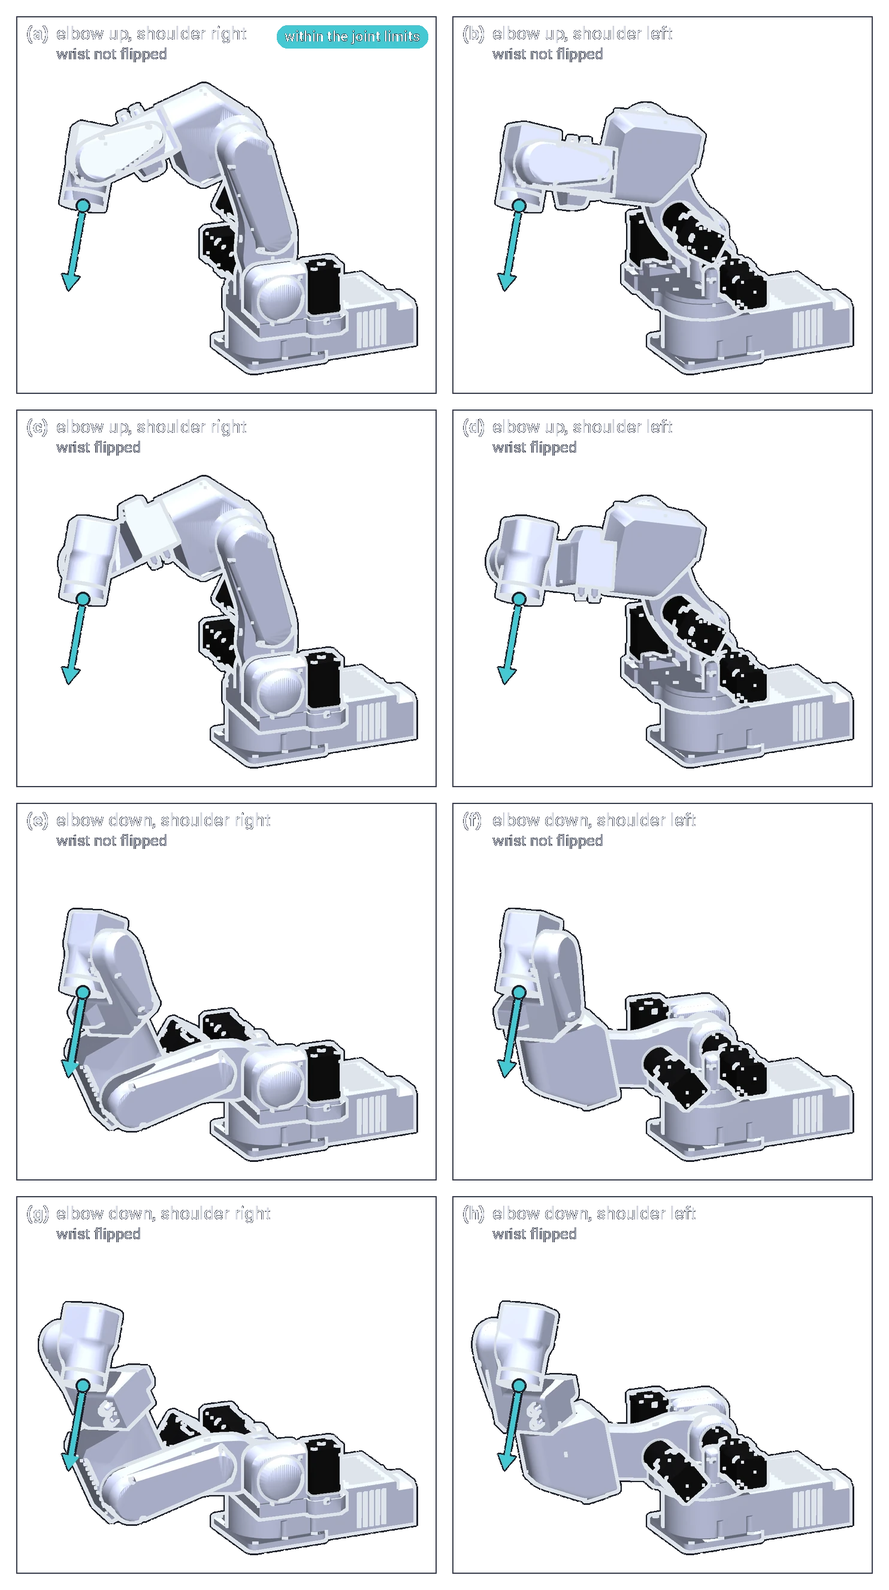
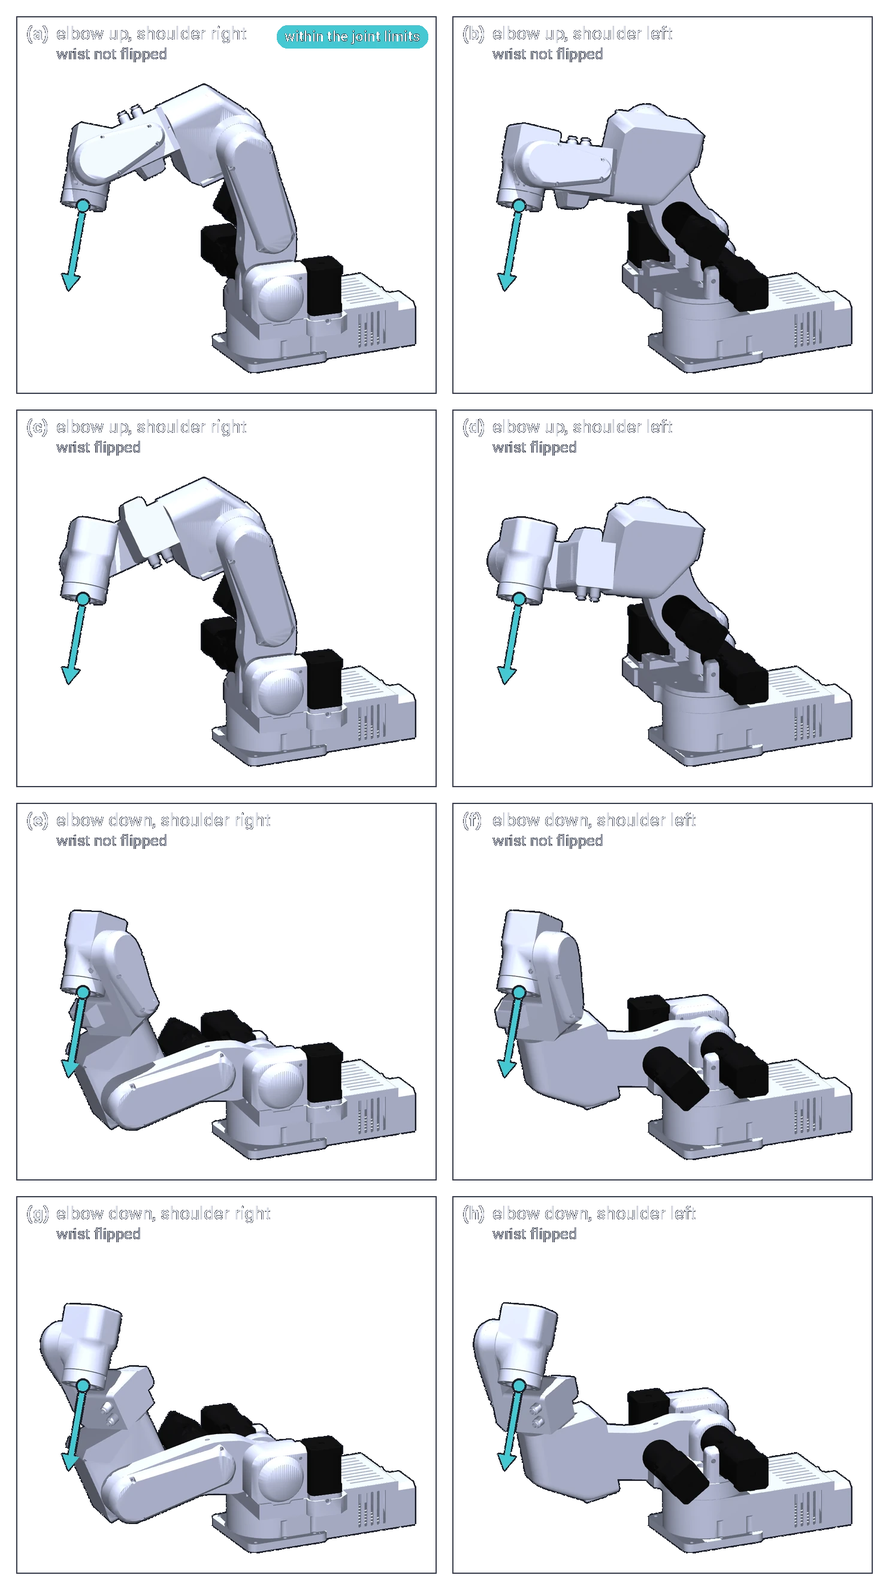
Joint limits for all six joints; after homing, joint 6 rule, green checks, singularity panels
The owner's answers (2026-11-02): after homing the arm points +90 deg from the
standby pose, and joint 6 has no limit with the bare flange (a tool's cables and
tubes limit it).

- The joint range figure has all six joints: J1 seen from above with the
  after-homing position marked, J6 without limit.
- Standby is the DH-table pose (J1 0 deg); after homing is it turned 90 deg about
  J1. The firmware and the Python API call that pose standby; the homing,
  mastering, glossary, theory and reference pages now say after-homing pose.
- The one-turn rule and the limits table: joint 6 is free with the bare flange.
- Check boxes use Material's success type, so they are green.
- The configurations figure is the plain shaded render (R1), no heavy outlines.
- The three singularities as a figure, each with its condition drawn.

diff --git a/docs/03-technical-data/joint-limits.md b/docs/03-technical-data/joint-limits.md
@@ -19,15 +19,20 @@ way, and the commander software's left arrows jog in that direction.
 | J5 | wrist 2 | tips the tool up, in the standby pose |
 | J6 | wrist 3 | clockwise, seen from the tool |
 
-## The standby pose
+## Standby and after homing
 
-The pose the robot takes after homing, and the reference for the limits below. In the kinematic model's
-Denavit-Hartenberg convention this pose has joint 1 at 0°; the firmware homes joint 1 to +90° so that the arm
-stands square to the base, and the software reports the standby pose as follows.
+The **standby pose** is the pose of the Denavit-Hartenberg table and the kinematics sheets, and the reference
+for the limits below: the upper arm vertical, the forearm horizontal, the arm pointing away from the
+electronics box. **After homing** the robot stands in the same pose turned 90° about joint 1, counter-clockwise
+seen from above: the firmware sets joint 1 to +90° when it finishes homing.
 
-| Joint 1 | Joint 2 | Joint 3 | Joint 4 | Joint 5 | Joint 6 |
-|---|---|---|---|---|---|
-| 90° (0° in the DH table) | −90° | 180° | 0° | 0° | 180° |
+| Pose | Joint 1 | Joint 2 | Joint 3 | Joint 4 | Joint 5 | Joint 6 |
+|---|---|---|---|---|---|---|
+| Standby | 0° | −90° | 180° | 0° | 0° | 180° |
+| After homing | 90° | −90° | 180° | 0° | 0° | 180° |
+
+The Python API calls the after-homing pose its standby (`STANDBY_ANGLES_DEG`), and a later `home()` moves
+there; the commander software's standby is the standby pose above.
 
 ![The standby pose, from the front and from the side, with the joints marked](../assets/figures/parol6_standby.webp#only-light){ width="900" }
 ![The standby pose, from the front and from the side, with the joints marked](../assets/figures/parol6_standby_dark.webp#only-dark){ width="900" }
@@ -39,15 +44,15 @@ The joint limits of PAROL6's model in [robot_descriptions](https://github.com/So
 
 | Joint | Negative limit | Standby | Positive limit | Range |
 |---|---|---|---|---|
-| J1 | −97.40° | 0° (DH) | +97.40° | 194.8° |
+| J1 | −97.40° | 0° | +97.40° | 194.8° |
 | J2 | −146.15° | −90° | −32.70° | 113.4° |
 | J3 | 105.52° | 180° | 294.59° | 189.1° |
 | J4 | −114.59° | 0° | +114.59° | 229.2° |
 | J5 | −120.32° | 0° | +120.32° | 240.6° |
-| J6 | | 180° | | one turn: the model has no limit, the cables do |
+| J6 | none | 180° | none | no limit with the bare flange; with a tool, its cables and tubes set it |
 
-![Joints 2 to 5 at both their limits, in colour, over the standby pose in grey; the arc spans the range, in the angles the software shows. Joint 4 is seen from the tool, with joint 5 at 90 degrees so that the tool's swing shows](../assets/figures/parol6_joint_ranges.webp#only-light){ width="860" }
-![Joints 2 to 5 at both their limits, in colour, over the standby pose in grey; the arc spans the range, in the angles the software shows. Joint 4 is seen from the tool, with joint 5 at 90 degrees so that the tool's swing shows](../assets/figures/parol6_joint_ranges_dark.webp#only-dark){ width="860" }
+![Each joint at both its limits, in its colour, over the standby pose in grey; the arc spans the range, in the angles the software shows. Joint 1 is seen from above, with the after-homing position marked; joint 4 is seen from the tool, with joint 5 at 90 degrees so that the tool's swing shows; joint 6 has no limit](../assets/figures/parol6_joint_ranges.webp#only-light){ width="860" }
+![Each joint at both its limits, in its colour, over the standby pose in grey; the arc spans the range, in the angles the software shows. Joint 1 is seen from above, with the after-homing position marked; joint 4 is seen from the tool, with joint 5 at 90 degrees so that the tool's swing shows; joint 6 has no limit](../assets/figures/parol6_joint_ranges_dark.webp#only-dark){ width="860" }
 
 !!! note "The firmware and the commander still use the earlier limits"
     Firmware 1 and the commander software enforce the limits of the earlier model until they are updated: J1
@@ -55,7 +60,7 @@ The joint limits of PAROL6's model in [robot_descriptions](https://github.com/So
     between the two is accepted by them; keep to the table above.
 
 Joints 2 and 3 are limited in both directions by their geometry and their switches; joints 1 and 4 by printed
-blockers; joint 5 by the length of its belt path; joint 6 only by the cables and tubes that run through the wrist.
+blockers; joint 5 by the length of its belt path; joint 6 by nothing with the bare flange, and with a tool by the tool's cables and tubes.
 
 !!! warning "Grippers and bases change the limits"
     A gripper changes where joint 5 can go without colliding with the forearm, and a riser under the base changes
@@ -67,8 +72,8 @@ blockers; joint 5 by the length of its belt path; joint 6 only by the cables and
     person, the table or itself, no safety-rated part checks them, and a wrong homing shifts them with it. They
     protect the robot's cables and parts, not the people near it ([Safety](../02-safety/index.md)).
 
-!!! danger "Never more than one turn"
+!!! danger "Never more than one turn, except joint 6"
     **No joint may ever be turned more than one full turn**, by hand or by software: the cables and pneumatic
-    tubes that pass through the joints wrap and tear. The one exception is **joint 6**: it may turn further during
-    assembly, and after assembly only where nothing runs through it
-    ([Moving the robot by hand](../02-safety/moving-by-hand.md)).
+    tubes that pass through the joints wrap and tear. The one exception is **joint 6**: with the bare flange it
+    can turn without limit; with a gripper or a tool, the tool's cables and tubes wrap as it turns, and they set
+    how far it may go ([Moving the robot by hand](../02-safety/moving-by-hand.md)).

diff --git a/docs/05-operation/homing.md b/docs/05-operation/homing.md
@@ -2,7 +2,7 @@
 
 After power-up the robot does not know where its joints are: the motors count steps, and the count starts at
 zero wherever the arm happens to stand. Homing gives each joint a reference by driving it to its limit switch or
-sensor, then moving a known number of steps to the standby pose. It must be done after every power-up, and again
+sensor, then moving a known number of steps to the after-homing pose. It must be done after every power-up, and again
 after a collision, a stall or any move by hand.
 
 ## Before you press Home
@@ -25,27 +25,29 @@ The firmware runs the sequence; the PC only starts it and watches.
 flowchart TD
     S([Home]) --> A[Joints 1, 2 and 3 drive together to their sensor and switches]
     A --> B[Each backs off a few hundred steps and approaches again slowly:<br>the second trigger is the reference]
-    B --> C[Joints 1, 2 and 3 move to their standby positions]
-    C --> D[Joint 4: the same against its inductive sensor, then standby]
+    B --> C[Joints 1, 2 and 3 move to their after-homing positions]
+    C --> D[Joint 4: the same against its inductive sensor, then its after-homing position]
     D --> E[Joint 6 turns in the negative direction until its sensor sees the pin,<br>backs off, re-approaches, moves on so that joint 5 can home]
     E --> F[Joint 5 homes against its switch]
-    F --> G[Joints 5 and 6 move to standby together]
-    G --> H([Every counter set to its standby value: six joints homed])
+    F --> G[Joints 5 and 6 move to their after-homing positions together]
+    G --> H([Every counter set to its after-homing value: six joints homed])
 ```
 
 1. **Joints 1, 2 and 3 move together** toward their switches: joint 1 to its inductive sensor, joints 2 and 3 to
    their limit switches. Each stops when it triggers.
 2. Each backs off a few hundred steps and approaches again slowly, and the position where it triggers the second
    time is the reference: the first hit may have pressed the switch too far.
-3. Joints 1, 2 and 3 move from the reference to their standby positions (13500, 19588 and 23020 steps away).
-4. **Joint 4** does the same against its inductive sensor and moves to standby.
+3. Joints 1, 2 and 3 move from the reference to their after-homing positions (13500, 19588 and 23020 steps away).
+4. **Joint 4** does the same against its inductive sensor and moves to its after-homing position.
 5. **Joint 6** turns in the negative direction until its sensor sees the homing pin, backs off, re-approaches,
    and moves on to the position from which joint 5 can home.
-6. **Joint 5** homes against its switch, and joints 5 and 6 move to standby together.
-7. The firmware sets every joint's counter to its standby value, and reports all six joints as homed.
+6. **Joint 5** homes against its switch, and joints 5 and 6 move to their after-homing positions together.
+7. The firmware sets every joint's counter to its after-homing value (`standby_position` in the firmware), and
+   reports all six joints as homed.
 
 A video of a correct homing: [Homing reference](https://www.youtube.com/watch?v=OCCQkIWPWwo). It takes about half
-a minute. The result is the standby pose with joint 1 at +90°: the arm standing square to the base.
+a minute. The result is the after-homing pose: the standby pose turned 90° about joint 1, with joint 1 at +90°
+([Joint limits and directions](../03-technical-data/joint-limits.md#standby-and-after-homing)).
 
 === "Commander software"
     Press **Home**. The response log reports the joints as they home; the position display and the simulator are
@@ -56,7 +58,7 @@ a minute. The result is the standby pose with joint 1 at +90°: the arm standing
     rbt.home(wait=True)
     ```
     The first `home()` after power-up runs the referencing sequence. A later `home()` on a referenced robot is a
-    planned, collision-checked joint move back to standby; `home(calibrate=True)` runs the sequence again.
+    planned, collision-checked joint move back to the after-homing pose; `home(calibrate=True)` runs the sequence again.
     Planned motion is refused with `MOTN_NOT_HOMED` until the robot is referenced.
 
 ## If it goes wrong
@@ -68,5 +70,5 @@ has the cases.
 
 ## Mastering
 
-A homed robot stands within a few steps of the standby pose. The exact number of steps from each switch to the
+A homed robot stands within a few steps of the after-homing pose. The exact number of steps from each switch to the
 witness marks differs between builds; [Mastering](mastering.md) says how to measure and set it.

diff --git a/docs/build/firmware-and-first-run.md b/docs/build/firmware-and-first-run.md
@@ -13,7 +13,7 @@ has the commands and what good output looks like.
     command stops them. Use it with the arm unmounted or free to move, never on a robot standing on the table with
     its arm folded against a stop.
 
-!!! check "Check"
+!!! success "Check"
     Six `Connection is: GOOD` lines in the report; `#LIMIT` names each switch while you press it; `#IO` follows
     the E-stop and the inputs and shows the supply near 24000 mV. If not:
     [Control board troubleshooting](../board/11-troubleshooting.md).
@@ -30,7 +30,7 @@ Before uploading, look at two things in the source:
 - `constants.h`: the motor currents, set for the BOM's motors. Lower them if yours are rated lower.
 - `main.cpp`: `j5_homing_offset`, 8900 for the pneumatic gripper holder, 8035 for the SSG-48.
 
-!!! check "Check"
+!!! success "Check"
     PlatformIO ends the upload with `SUCCESS`. If not: [Control board troubleshooting](../board/11-troubleshooting.md).
 
 ## 3. First power-on
@@ -38,7 +38,7 @@ Before uploading, look at two things in the source:
 Unplug the programming adapter, plug in the supply, hold the forearm and press the button. Six clicks, and the
 arm holds. Start the commander software, connect, and open the joint jog menu.
 
-!!! check "Check"
+!!! success "Check"
     Six clicks, the fan runs, the arm holds itself, and the commander shows the robot's data. If not:
     [First power-on: if nothing happens](../04-installation/first-power-on.md#if-nothing-happens).
 
@@ -56,7 +56,7 @@ Joint__->direction_reversed = 1;
 Upload again and check again. Swapping one motor phase's wires has the same effect, if you prefer to open the
 base.
 
-!!! check "Check"
+!!! success "Check"
     Every joint's left arrow turns it in its positive direction.
 
 ## 5. Home
@@ -64,7 +64,7 @@ base.
 With every direction right, press **Home** and stay at the E-stop. The sequence is on [Homing](../05-operation/homing.md);
 if a joint grinds at a stop, press the E-stop and see [Homing failures](../08-troubleshooting/homing-failures.md).
 
-!!! check "Check"
+!!! success "Check"
     Homing finishes, the simulator matches the robot, and the witness marks agree.
 
 ## 6. Master, and reduce the currents

diff --git a/docs/quick-start.md b/docs/quick-start.md
@@ -26,7 +26,7 @@ Read in more detail: [What you need](01-overview/what-you-need.md).
 Bolt the base to the table through its six holes, or clamp it to the edge. A free-standing PAROL6 tips over when
 it extends.
 
-!!! check "Check"
+!!! success "Check"
     Push the top of the base sideways, firmly: it must not lift or slide.
 
 Read in more detail: [Mounting the robot](04-installation/mounting.md).
@@ -49,7 +49,7 @@ firmware: upload the main firmware first ([Firmware](board/08-firmware.md)).
 
 Read in more detail: [First power-on](04-installation/first-power-on.md) · [Switching on and off](05-operation/switching-on-off.md).
 
-!!! check "Check"
+!!! success "Check"
     Six drivers initialise and the arm supports itself before you let go. If it does not, use
     [First power-on: if nothing happens](04-installation/first-power-on.md#if-nothing-happens).
 
@@ -73,7 +73,7 @@ Read in more detail: [First power-on](04-installation/first-power-on.md) · [Swi
 
 Read in more detail: [The commander software](gui/commander/index.md) · [The Python API](programming/02-python-api/index.md).
 
-!!! check "Check"
+!!! success "Check"
     The commander shows incoming robot data, or `ping()` reports `hardware_connected=1`. If it does not,
     use [Communication troubleshooting](08-troubleshooting/communication.md).
 
@@ -91,7 +91,7 @@ firmware, not by trial: [Firmware and first run](build/firmware-and-first-run.md
 
 Read in more detail: [Jogging](05-operation/jogging.md).
 
-!!! check "Check"
+!!! success "Check"
     Every joint turned the way the figure shows. If one did not, fix it before you home:
     [A joint turns the wrong way](build/firmware-and-first-run.md#a-joint-turns-the-wrong-way).
 
@@ -103,7 +103,7 @@ that grinds at its end stop has a switch that does not trigger.
 
 Read in more detail: [Homing](05-operation/homing.md) · [Homing failures](08-troubleshooting/homing-failures.md).
 
-!!! check "Check"
+!!! success "Check"
     Homing finishes, the physical arm matches the simulator, and the witness marks agree. If a joint
     keeps travelling or the pose is wrong, stop and use [Homing failures](08-troubleshooting/homing-failures.md).
 

diff --git a/docs/theory/homing-and-mastering.md b/docs/theory/homing-and-mastering.md
@@ -6,17 +6,17 @@ PAROL6 its position: homing, every time, and mastering, once per robot.
 ## Homing
 
 Each joint drives to a switch or sensor whose position in the mechanics is known from the CAD model, then moves a
-fixed number of steps from there to the standby pose. After that the firmware's step counters hold the joint
+fixed number of steps from there to the after-homing pose. After that the firmware's step counters hold the joint
 positions, and every move is counted from them. The process is the one 3D printers use. The sequence and what
 can go wrong are in the Robot Manual's [Homing](../05-operation/homing.md).
 
 In the software: the commander's **Home** button, the API's `home()`. The API tracks whether the robot is
 referenced and refuses planned motion before it (`MOTN_NOT_HOMED`); a `home()` on a referenced robot is a
-planned joint move back to standby, and `home(calibrate=True)` runs the firmware's sequence again.
+planned joint move back to the after-homing pose, and `home(calibrate=True)` runs the firmware's sequence again.
 
 ## Mastering
 
-The fixed number of steps from the switch to the standby pose is measured on the reference robot. Printers and
+The fixed number of steps from the switch to the after-homing pose is measured on the reference robot. Printers and
 switches vary, so on another robot the homed pose is a fraction of a degree off per joint. Mastering measures the
 error with the witness marks, pins through holes in neighbouring links that line up at the zero, and corrects
 the number in the firmware ([Mastering](../05-operation/mastering.md)).

diff --git a/docs/02-safety/moving-by-hand.md b/docs/02-safety/moving-by-hand.md
@@ -3,11 +3,12 @@
 An unpowered PAROL6 can be moved by hand: the joints turn against the friction of their gearboxes and belts, and
 the arm has no brakes to release. This is how you pose it for packing and how you lift it. Two rules:
 
-!!! danger "Never more than one turn"
+!!! danger "Never more than one turn, except joint 6"
     **No joint may ever be turned more than one full turn**, by hand or by software. Cables and pneumatic tubes
-    run through the joints, and a second turn wraps and tears them. The one exception is **joint 6**: it may turn
-    further during assembly, and after assembly only where nothing runs through it. Joint 1 has printed blockers
-    that stop it; if your build has none, the rule is yours to keep.
+    run through the joints, and a second turn wraps and tears them. The one exception is **joint 6**: with the
+    bare flange it can turn without limit; with a gripper or a tool, the tool's cables and tubes wrap as it
+    turns, and they set how far it may go. Joint 1 has printed blockers that stop it; if your build has none,
+    the rule is yours to keep.
 
 ![Joint 5 at its lower and upper limit, -120 and +120 degrees, over the standby pose in grey. A gripper can reach the forearm before that: check the clearance with a slow jog](../assets/figures/parol6_j5_range.webp#only-light){ width="860" }
 ![Joint 5 at its lower and upper limit, -120 and +120 degrees, over the standby pose in grey. A gripper can reach the forearm before that: check the clearance with a slow jog](../assets/figures/parol6_j5_range_dark.webp#only-dark){ width="860" }

diff --git a/docs/theory/joints-and-poses.md b/docs/theory/joints-and-poses.md
@@ -24,16 +24,17 @@ hardware agrees with this convention; a new build sets it per joint on the first
 A set of six joint angles is a point in **joint space**: it describes the arm's configuration completely, and a
 joint move is a straight line in it, every joint moving proportionally and finishing at the same time.
 
-The reference point is the **standby pose**, the pose after homing:
+The reference point is the **standby pose**, the pose of the Denavit-Hartenberg table; after homing the robot
+stands in it turned 90° about joint 1:
 
-| J1 | J2 | J3 | J4 | J5 | J6 |
-|---|---|---|---|---|---|
-| 90° | −90° | 180° | 0° | 0° | 180° |
+| Pose | J1 | J2 | J3 | J4 | J5 | J6 |
+|---|---|---|---|---|---|---|
+| Standby | 0° | −90° | 180° | 0° | 0° | 180° |
+| After homing | 90° | −90° | 180° | 0° | 0° | 180° |
 
-Every joint angle the software reports is measured from the kinematic model's zero in this convention. The model's
-Denavit-Hartenberg zero has J1 at 0°, with the arm along the base's X axis; the firmware homes J1 a quarter turn
-further, to 90°, so that the arm stands square to the base, and the software reports 90°. Both say the same
-thing about the same pose.
+Every joint angle the software reports is measured in this convention. At J1 = 0° the arm points along the
+base's X axis, away from the electronics box; homing ends with J1 a quarter turn further, at 90°, and the
+software reports 90° there. The Python API calls that after-homing pose its standby.
 
 ## Limits
 

diff --git a/docs/theory/configurations-and-singularities.md b/docs/theory/configurations-and-singularities.md
@@ -55,6 +55,9 @@ The three singularities of a six-axis arm with a spherical wrist:
 | Shoulder | The wrist centre on the joint 1 axis. The shoulder axis is 23.4 mm in front of it, so the arm leans back to get there: with joint 3 at 180°, at joint 2 = −133.1° | The wrist straight above the middle of the base | working close to the joint 1 axis, above the base |
 | Elbow | Joint 3 at 256.2°: the upper arm and the line from the elbow to the wrist centre in one line, the wrist centre 362.3 mm from the shoulder axis | The arm fully stretched | at full reach |
 
+![The three singularities of PAROL6, each with its condition drawn: the wrist with the axes of joints 4 and 6 in one line, the shoulder with the wrist centre on the joint 1 axis, the elbow with joints 2 and 3 and the wrist centre in one line](../assets/theory/singularities_parol6.webp#only-light){ width="860" }
+![The three singularities of PAROL6, each with its condition drawn: the wrist with the axes of joints 4 and 6 in one line, the shoulder with the wrist centre on the joint 1 axis, the elbow with joints 2 and 3 and the wrist centre in one line](../assets/theory/singularities_parol6_dark.webp#only-dark){ width="860" }
+
 The angles are the ones the software shows, from PAROL6's model. The wrist centre is where the axes of joints 4,
 5 and 6 meet. The elbow singularity is the outer edge of the workspace
 ([Workspace and reach](workspace-and-reach.md)): singularities are part of its boundary, with the joint limits.

diff --git a/docs/includes/terminology.md b/docs/includes/terminology.md
@@ -63,8 +63,10 @@
     and so on.
 
 **Standby pose**
-:   The pose the robot takes after homing and the zero of its joint angles: joints at 90°, −90°, 180°, 0°, 0°,
-    180°. The Denavit-Hartenberg zero of the kinematic model has joint 1 at 0° instead; the firmware homes to +90°.
+:   The pose of the Denavit-Hartenberg table and the reference of the joint angles: joints at 0°, −90°, 180°, 0°,
+    0°, 180°, the upper arm vertical, the forearm horizontal, the arm pointing away from the electronics box.
+    After homing the robot stands in it turned 90° about joint 1 (joint 1 at 90°): the after-homing pose,
+    which the Python API calls its standby.
 
 **Stepper motor**
 :   The motors of PAROL6: open-loop motors that move in steps, 200 full steps per turn, 6400 with the 32

diff --git a/docs/reference/firmware-parameters.md b/docs/reference/firmware-parameters.md
@@ -35,7 +35,8 @@ The driver is set to `MOTORx_MAX_CURRENT × 0.85` as the running current and `ho
 | Driver position / LIMIT input | 1 / 6 | 6 / 2 | 5 / 3 | 4 / 4 | 2 / 5 | 3 / 1 |
 
 Joint 1's standby of 10240 steps is +90° (90 / 0.05625 × 6.4): the firmware homes to the pose the software
-reports as J1 = 90°.
+reports as J1 = 90°. The firmware's "standby" is what these pages call the after-homing pose: the standby
+pose turned 90° about joint 1 ([Joint limits and directions](../03-technical-data/joint-limits.md#standby-and-after-homing)).
 
 ## Joint 5 and the tool (`main.cpp`)
 

diff --git a/docs/05-operation/switching-on-off.md b/docs/05-operation/switching-on-off.md
@@ -18,7 +18,7 @@ holds them with the holding current from then on.
     press the E-stop; if the E-stop has no effect, switch off the power supply. The power button is the last
     resort, and only with the arm held.
 
-1. Stop the program; bring the arm to the standby pose with Home, or jog it over the base.
+1. Stop the program; bring the arm to the after-homing pose with Home, or jog it over the base.
 2. Disconnect in the software, or stop the controller.
 3. Hold the forearm.
 4. Press the power button. The motors release at once and the arm goes limp in your hand.

diff --git a/docs/05-operation/mastering.md b/docs/05-operation/mastering.md
@@ -1,6 +1,6 @@
 # Mastering
 
-Homing brings each joint to its switch and then a fixed number of steps to the standby pose. That number is in
+Homing brings each joint to its switch and then a fixed number of steps to the after-homing pose. That number is in
 the firmware, measured on the reference robot. Printers and parts differ, so on your robot the homed pose may be
 off by a fraction of a degree per joint. Mastering measures the difference and corrects the number, so that a
 homed robot stands exactly at its witness marks.
